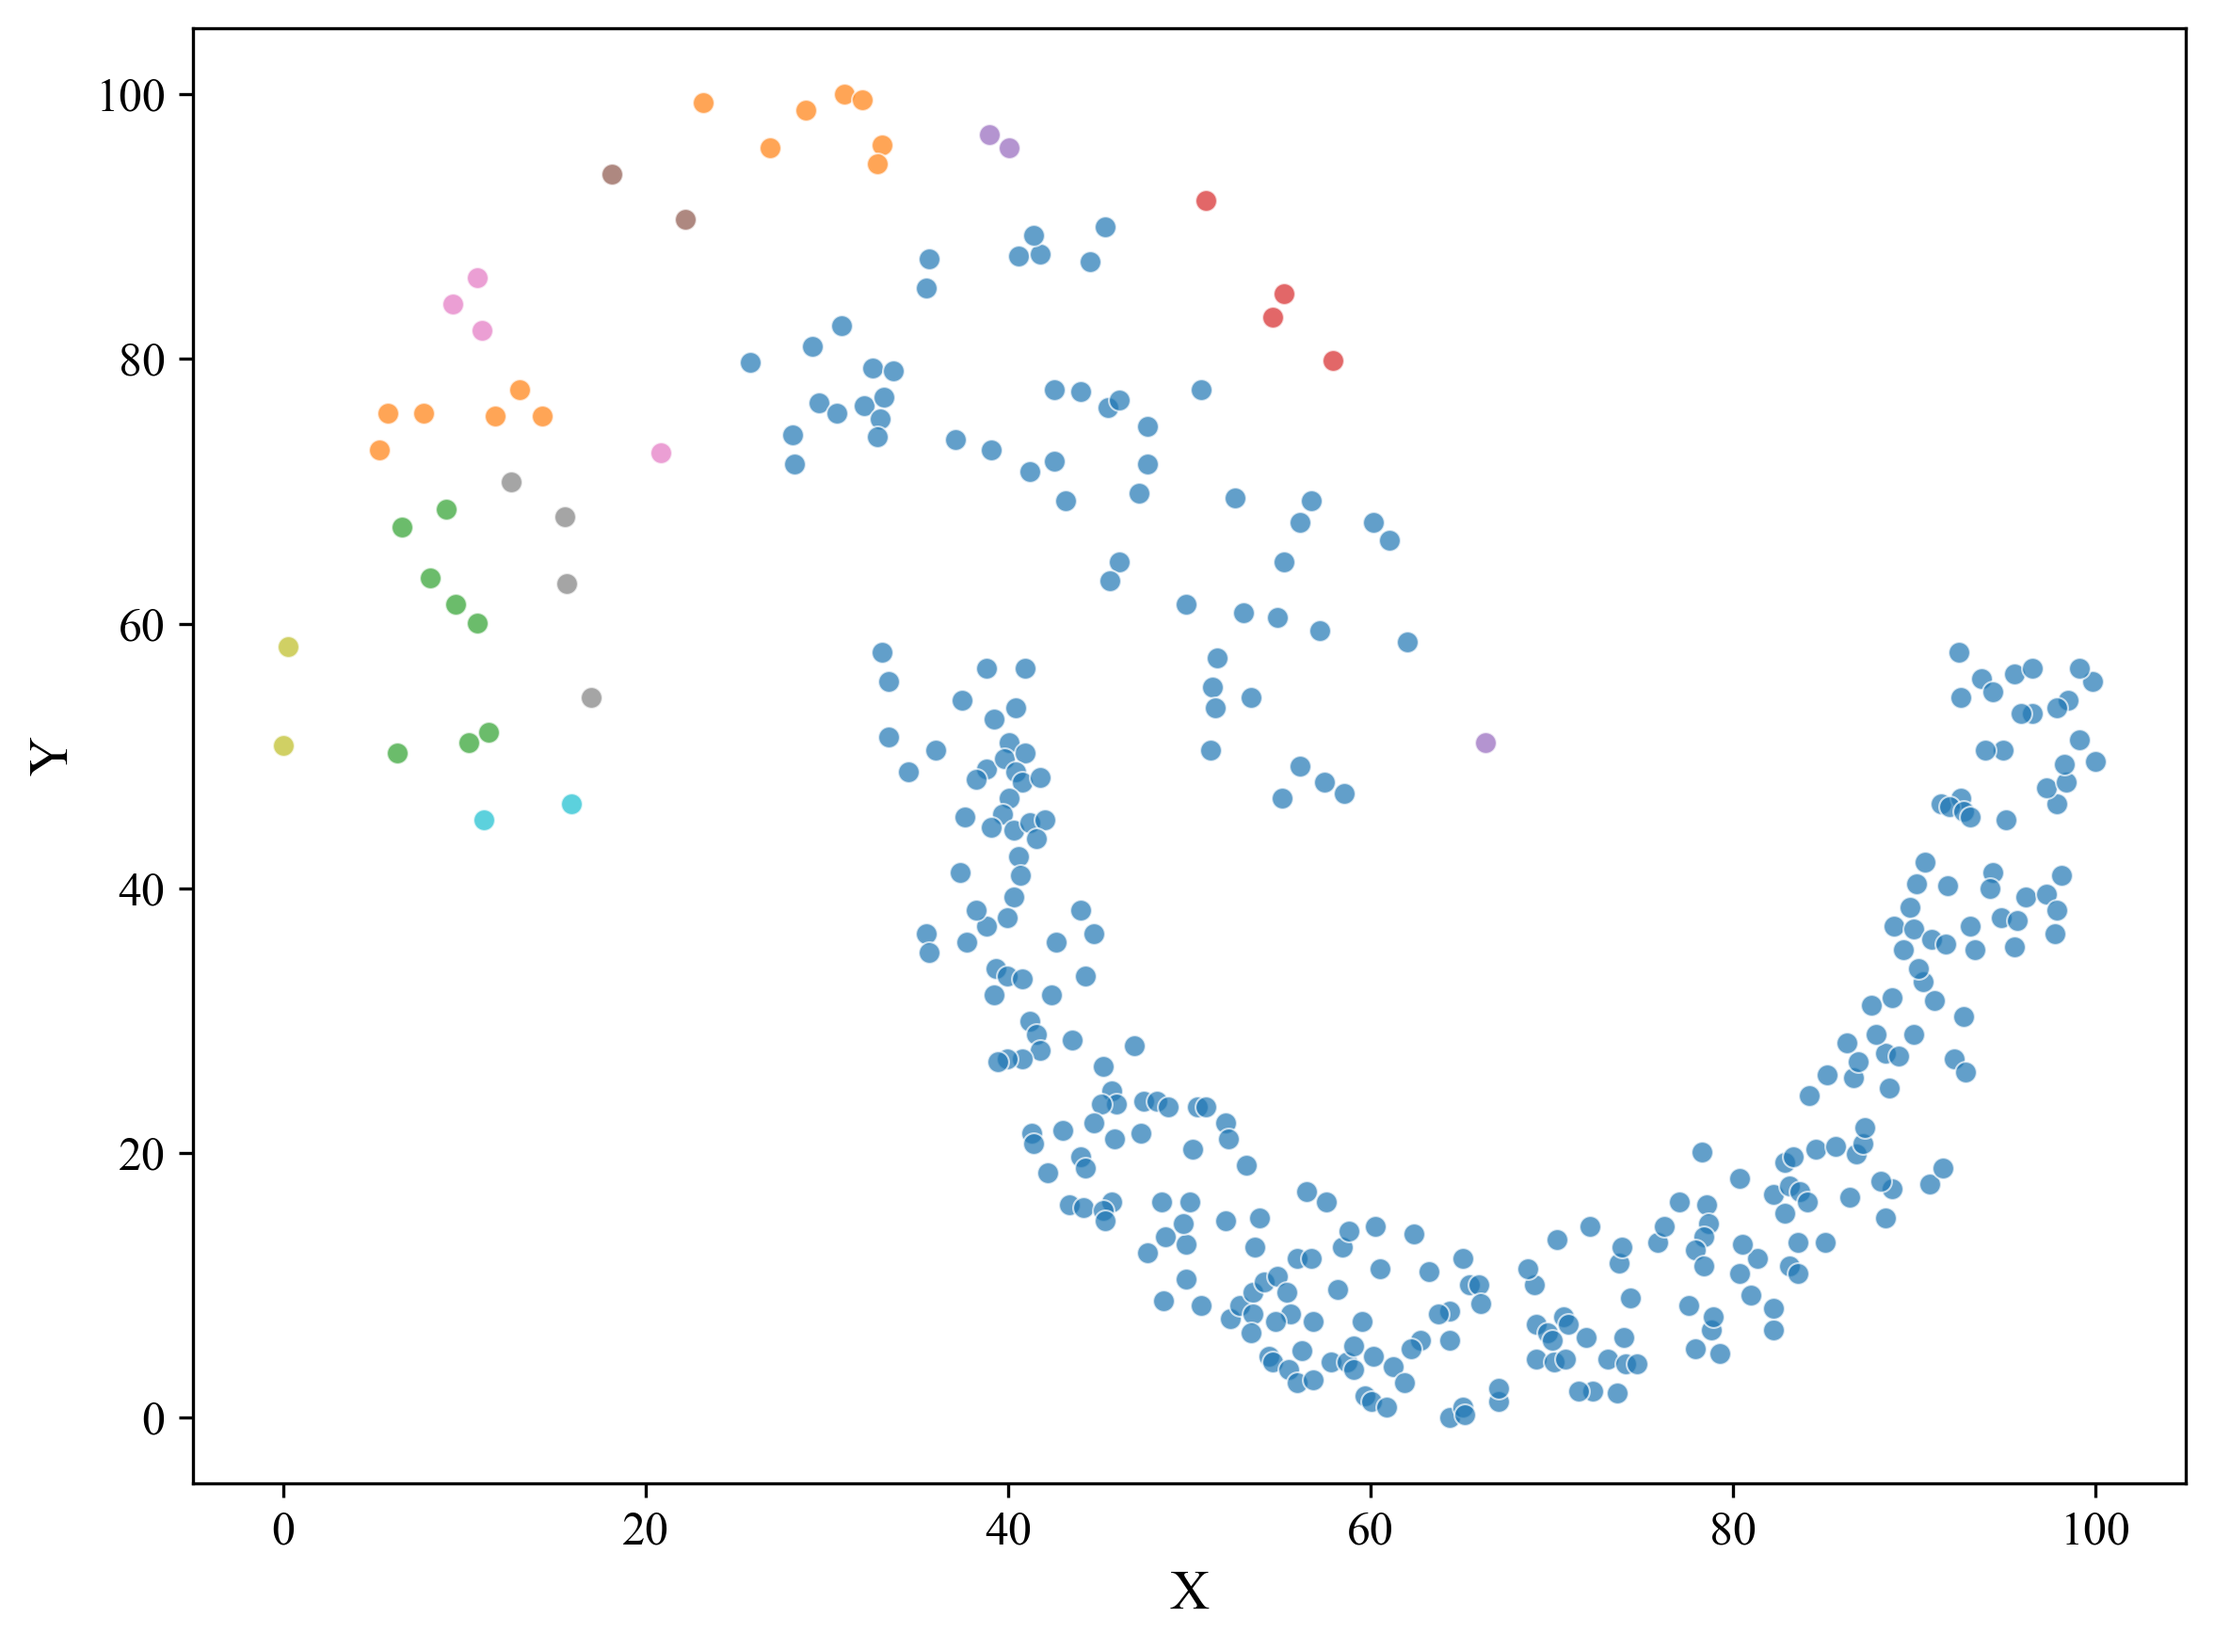
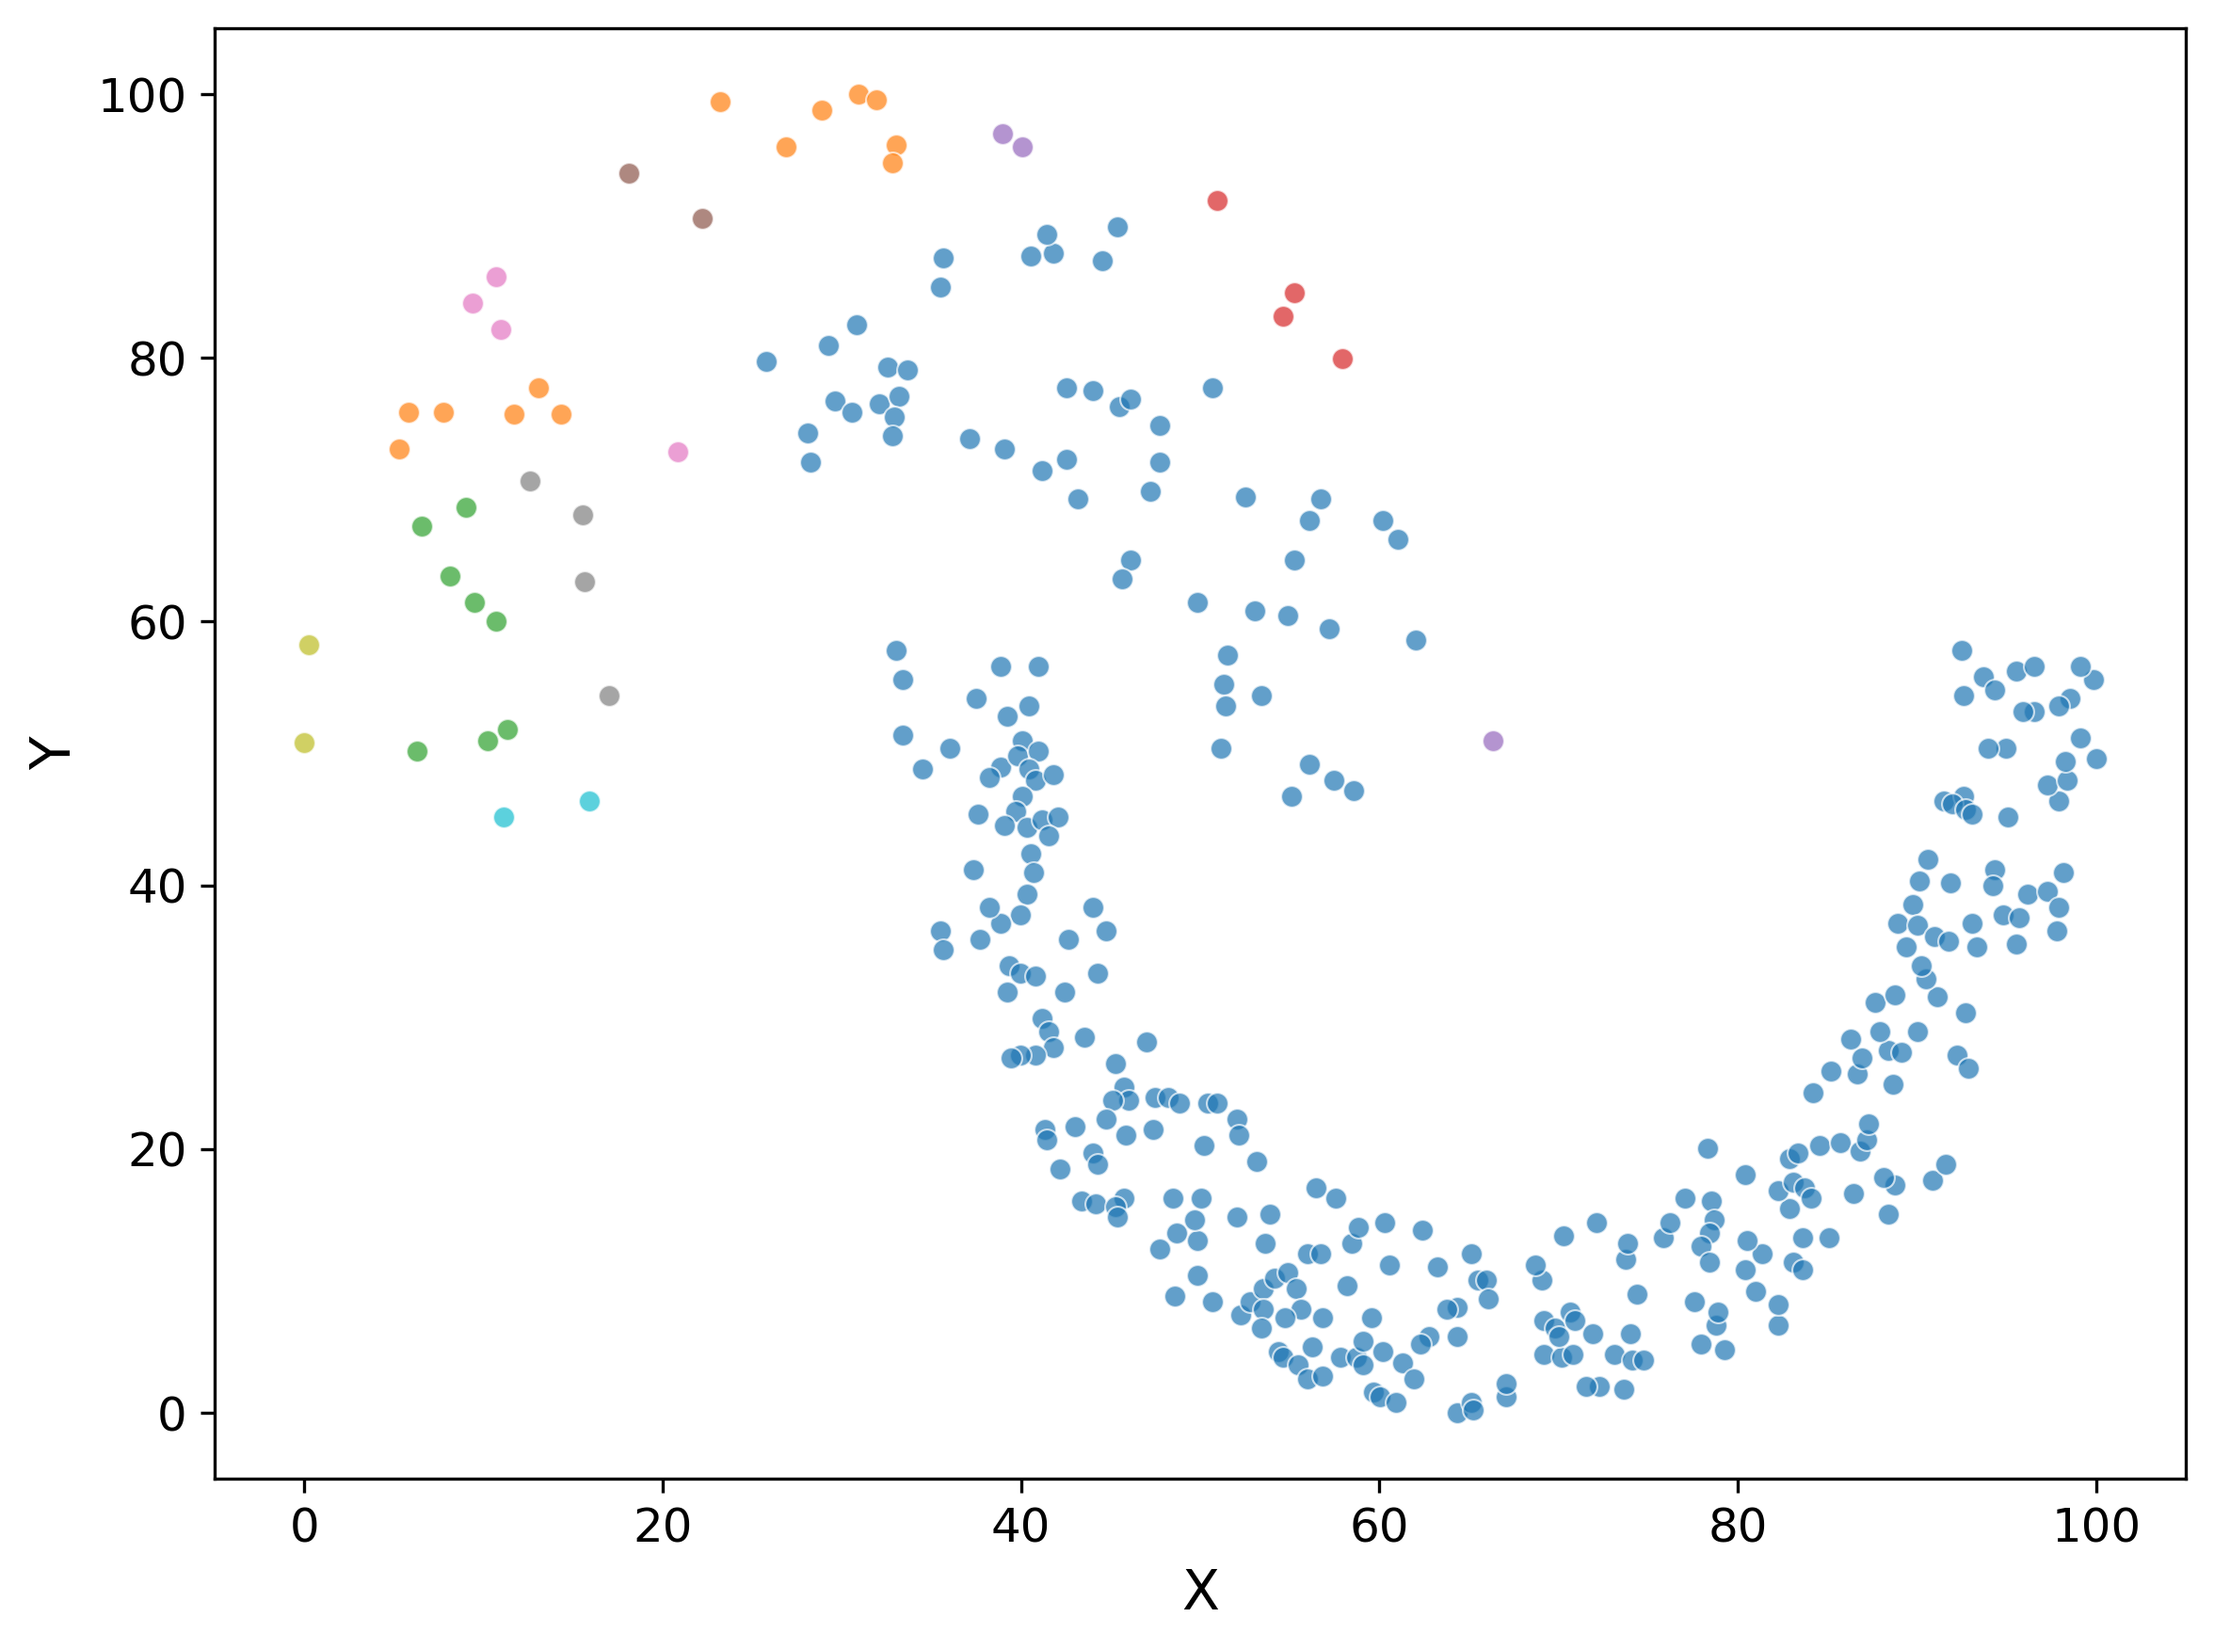
fix

diff --git a/algorithm_comparison/alg_gmm.py b/algorithm_comparison/alg_gmm.py
@@ -15,7 +15,7 @@ from algorithm_comparison.utils import (
 )
 
 # ==================== 配置 ====================
-DATASET = "../data/Compound.csv"
+DATASET = "../data/jain.csv"
 OUTPUT_DIR = "results"
 NORMALIZE = True
 
@@ -25,8 +25,8 @@ NORMALIZE = True
 # - covariance_type: 协方差类型 ('full', 'tied', 'diag', 'spherical')
 # - n_init: 初始化次数
 PARAM_RANGES = {
-    'n_components': (2, 15, 1),    # 簇数：从2到15，步长1
-    'n_init': (5, 20, 5)           # 初始化次数：从5到20，步长5
+    'n_components': (2, 2, 1),    # 簇数：从2到15，步长1
+    'n_init': (1, 50, 1)           # 初始化次数：从5到20，步长5
 }
 
 # 协方差类型列表（单独处理）

diff --git a/algorithm_comparison/alg_clique2.py b/algorithm_comparison/alg_clique2.py
@@ -21,7 +21,7 @@ except ImportError:
     print("警告: pyclustering未安装，请运行: pip install pyclustering")
 
 # ==================== 配置 ====================
-DATASET = "../data/jain.csv"
+DATASET = "../data/ring.csv"
 OUTPUT_DIR = "results"
 NORMALIZE = True
 
@@ -31,7 +31,7 @@ NORMALIZE = True
 # - density_threshold: 密度阈值
 PARAM_RANGES = {
     'intervals': (4, 100, 1),           # 网格划分数：从5到30，步长1
-    'density_threshold': (1, 15, 1)    # 密度阈值：从1到15，步长1
+    'density_threshold': (1, 50, 1)    # 密度阈值：从1到15，步长1
 }
 
 # 优化目标

diff --git a/algorithm_comparison/alg_bang.py b/algorithm_comparison/alg_bang.py
@@ -31,8 +31,8 @@ NORMALIZE = True
 # - levels: 网格层级数（决定网格精细程度）
 # - density_threshold: 密度阈值（相对值0-1）
 PARAM_RANGES = {
-    'levels': (2, 50, 1),                  # 网格层级：从3到15，步长1
-    'density_threshold': (0.0, 0.5, 0.05)  # 密度阈值：从0.0到0.3，步长0.05
+    'levels': (4, 100, 1),                  # 网格层级：从3到15，步长1
+    'density_threshold': (0.01, 1, 0.05)  # 密度阈值：从0.0到0.3，步长0.05
 }
 
 # 优化目标
